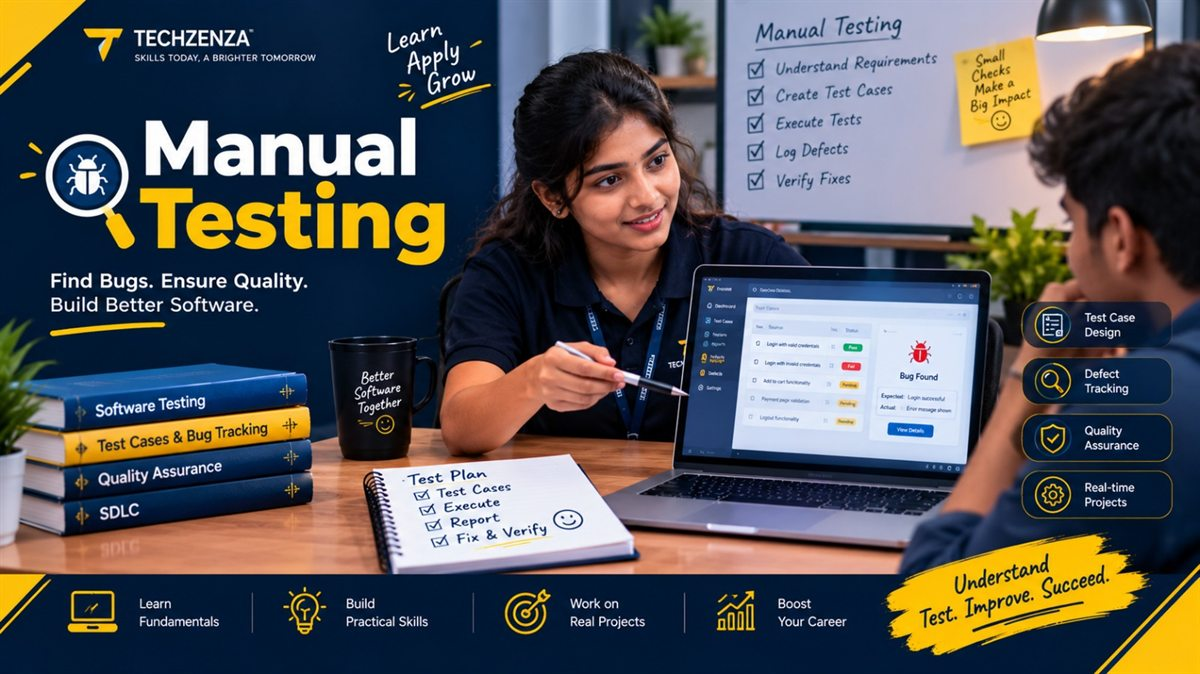
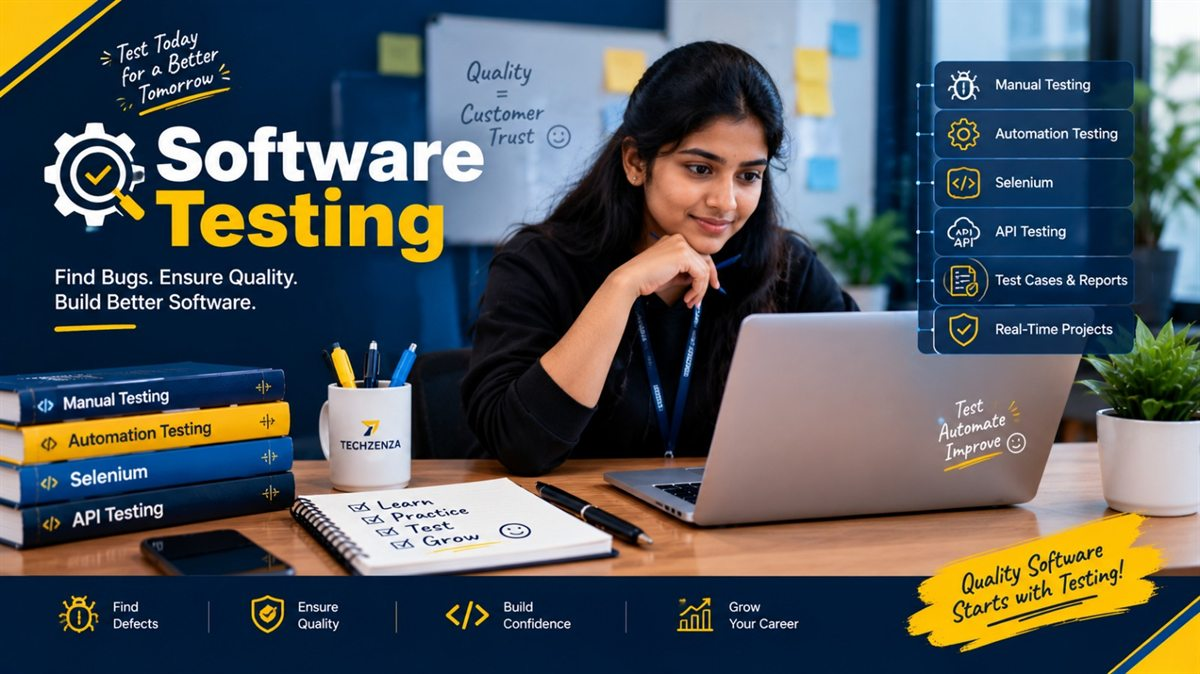
c

diff --git a/index.html b/index.html
@@ -114,13 +114,13 @@
           "name": "IT Training Courses",
           "itemListElement": [
             { "@type": "Offer", "itemOffered": { "@type": "Course", "name": "Java Full Stack Development", "description": "Explore front-end and back-end development and build complete web applications with Java, Spring Boot, React and SQL.", "provider": { "@id": "https://techzenzatechnology.netlify.app/#organization" } } },
-            { "@type": "Offer", "itemOffered": { "@type": "Course", "name": "Python Full Stack Development", "description": "Learn Python programming and build full-stack applications with Django, React and SQL.", "provider": { "@id": "https://techzenzatechnology.netlify.app/#organization" } } },
+            { "@type": "Offer", "itemOffered": { "@type": "Course", "name": "Python Full Stack Development", "description": "Learn full stack development with Python, Flask, HTML, CSS, JavaScript and MySQL – from basics to deployment.", "provider": { "@id": "https://techzenzatechnology.netlify.app/#organization" } } },
             { "@type": "Offer", "itemOffered": { "@type": "Course", "name": "Web Development", "description": "Learn the fundamentals of building modern, responsive websites with HTML, CSS, JavaScript and React.", "provider": { "@id": "https://techzenzatechnology.netlify.app/#organization" } } },
             { "@type": "Offer", "itemOffered": { "@type": "Course", "name": "Software Testing", "description": "Understand software quality and testing fundamentals: Manual Testing, SDLC, STLC, Jira, API Testing and Postman.", "provider": { "@id": "https://techzenzatechnology.netlify.app/#organization" } } },
-            { "@type": "Offer", "itemOffered": { "@type": "Course", "name": "Automation Testing", "description": "Learn how automation supports efficient software testing with Java, Selenium, TypeScript and Playwright.", "provider": { "@id": "https://techzenzatechnology.netlify.app/#organization" } } },
-            { "@type": "Offer", "itemOffered": { "@type": "Course", "name": "Data Analytics", "description": "Discover data analysis, visualisation and data-driven thinking with Excel, SQL, Python, Power BI and Pandas.", "provider": { "@id": "https://techzenzatechnology.netlify.app/#organization" } } },
-            { "@type": "Offer", "itemOffered": { "@type": "Course", "name": "DevOps & Cloud", "description": "Explore cloud technologies and modern development practices with AWS, Linux, Git, Docker and CI/CD.", "provider": { "@id": "https://techzenzatechnology.netlify.app/#organization" } } },
-            { "@type": "Offer", "itemOffered": { "@type": "Course", "name": "Scrum Master & Agile", "description": "Learn agile ways of working and how high-performing teams deliver with Agile, Scrum, Jira and Sprint Planning.", "provider": { "@id": "https://techzenzatechnology.netlify.app/#organization" } } }
+            { "@type": "Offer", "itemOffered": { "@type": "Course", "name": "Automation Testing", "description": "Learn automation testing with Selenium, TestNG, Java and Cypress through real-world projects.", "provider": { "@id": "https://techzenzatechnology.netlify.app/#organization" } } },
+            { "@type": "Offer", "itemOffered": { "@type": "Course", "name": "Data Analytics", "description": "Learn data analysis and visualisation with Excel, SQL, Python and Power BI.", "provider": { "@id": "https://techzenzatechnology.netlify.app/#organization" } } },
+            { "@type": "Offer", "itemOffered": { "@type": "Course", "name": "DevOps & Cloud", "description": "Automate, deploy and scale with AWS, Docker, Kubernetes, Jenkins, Terraform and Linux.", "provider": { "@id": "https://techzenzatechnology.netlify.app/#organization" } } },
+            { "@type": "Offer", "itemOffered": { "@type": "Course", "name": "Scrum Master & Agile", "description": "Learn agile ways of working and how high-performing teams deliver with Scrum, Agile, Jira, Confluence and Kanban.", "provider": { "@id": "https://techzenzatechnology.netlify.app/#organization" } } }
           ]
         }
       }

diff --git a/src/data/courses.js b/src/data/courses.js
@@ -31,8 +31,8 @@ export const COURSES = [
     category: 'Development',
     icon: FaPython,
     image: '/images/courses/python-full-stack.jpg',
-    description: 'Learn Python programming and build full-stack applications with modern frameworks.',
-    tools: ['Python', 'Django', 'React', 'SQL'],
+    description: 'Learn full stack development with Python – from basics to deployment.',
+    tools: ['Python', 'Flask', 'HTML', 'CSS', 'JavaScript', 'MySQL', 'Render / AWS'],
   },
   {
     id: 'web-development',
@@ -50,7 +50,7 @@ export const COURSES = [
     icon: FaBug,
     image: '/images/courses/software-testing.jpg',
     description: 'Understand software quality and testing fundamentals.',
-    tools: ['Manual Testing', 'SDLC', 'STLC', 'Jira', 'API Testing', 'Postman'],
+    tools: ['Manual Testing', 'SDLC', 'STLC', 'Test Cases & Reports', 'API Testing', 'Jira'],
   },
   {
     id: 'automation-testing',
@@ -58,8 +58,8 @@ export const COURSES = [
     category: 'Testing',
     icon: FaRobot,
     image: '/images/courses/automation-testing.jpg',
-    description: 'Learn how automation supports efficient software testing.',
-    tools: ['Java', 'Selenium', 'TypeScript', 'Playwright'],
+    description: 'Build real-world skills to create smarter, faster and more reliable software tests.',
+    tools: ['Selenium', 'TestNG', 'Java', 'Cypress'],
   },
   {
     id: 'data-analytics',
@@ -67,8 +67,8 @@ export const COURSES = [
     category: 'Data & Cloud',
     icon: FaChartBar,
     image: '/images/courses/data-analytics.jpg',
-    description: 'Discover data analysis, visualisation and data-driven thinking.',
-    tools: ['Excel', 'SQL', 'Python', 'Power BI', 'Pandas'],
+    description: 'Learn to analyse, visualise and turn data into decisions with real impact.',
+    tools: ['Excel', 'SQL', 'Python', 'Power BI', 'Data Visualisation'],
   },
   {
     id: 'devops-cloud',
@@ -76,8 +76,8 @@ export const COURSES = [
     category: 'Data & Cloud',
     icon: FaCloud,
     image: '/images/courses/devops-cloud.jpg',
-    description: 'Explore cloud technologies and modern development practices.',
-    tools: ['AWS', 'Linux', 'Git', 'Docker', 'CI/CD'],
+    description: 'Automate, deploy and scale with cloud technologies and modern DevOps practices.',
+    tools: ['AWS', 'Docker', 'Kubernetes', 'Jenkins', 'Terraform', 'Linux'],
   },
   {
     id: 'scrum-agile',
@@ -86,6 +86,6 @@ export const COURSES = [
     icon: FaUsers,
     image: '/images/courses/scrum-agile.jpg',
     description: 'Learn agile ways of working and how high-performing teams deliver.',
-    tools: ['Agile', 'Scrum', 'Jira', 'Sprint Planning'],
+    tools: ['Scrum', 'Agile', 'Jira & Confluence', 'Kanban', 'Sprint Planning'],
   },
 ];
